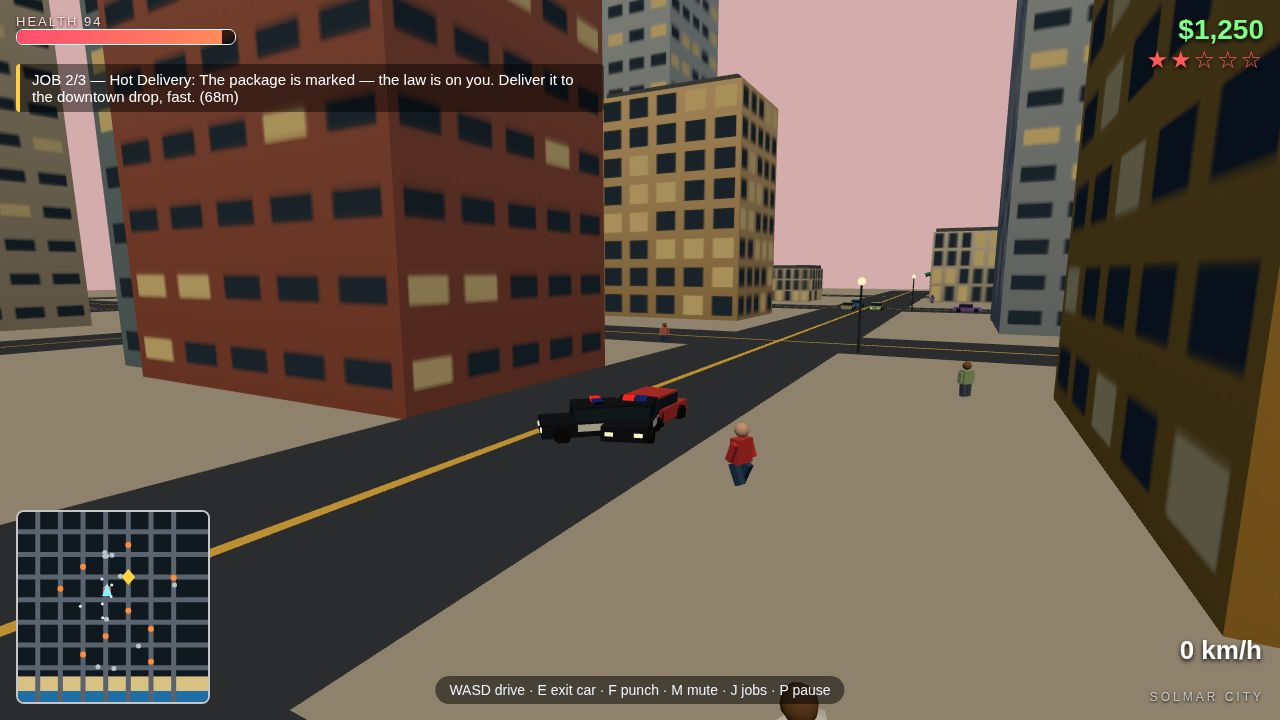
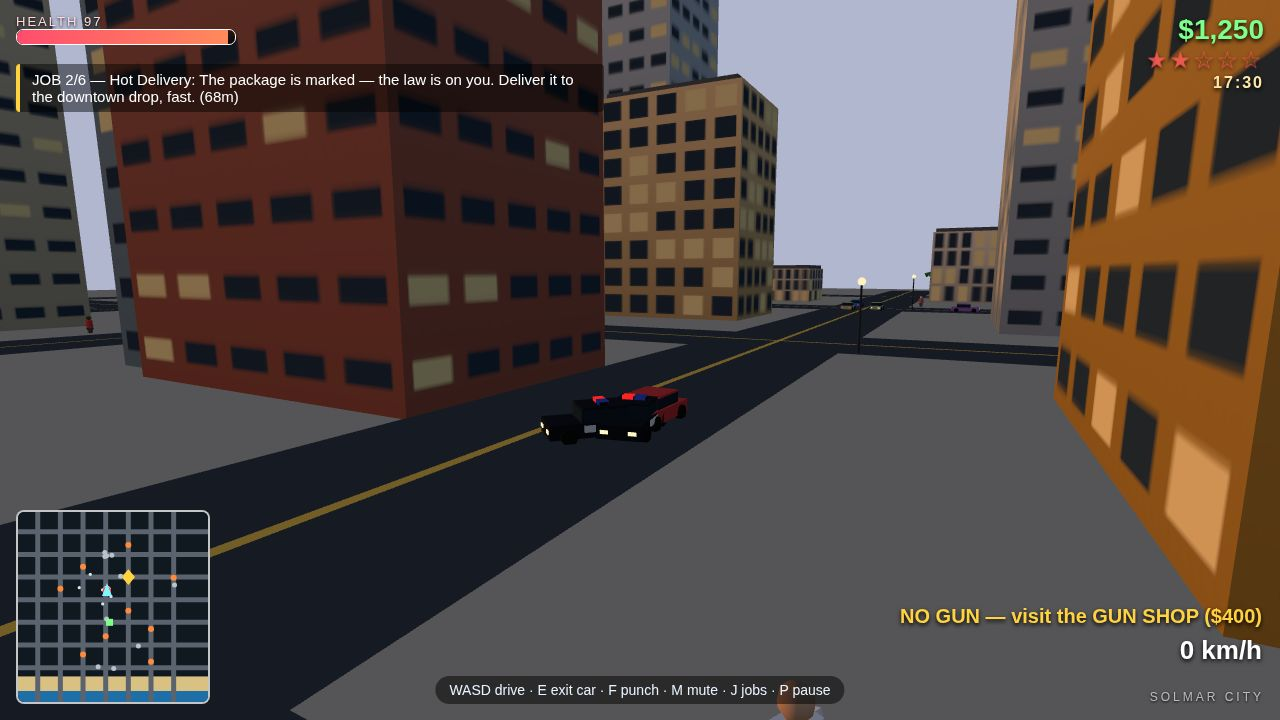
Phase 3 fixes: clock agrees with sky in all poses, long Help! bark in mission shot, health-0 WASTED edge, drop stale vista shot

diff --git a/game/src/shots.js b/game/src/shots.js
@@ -5,7 +5,8 @@
 // every pose only uses systems that exist in the build (Phase 2: traffic,
 // pedestrians, police pursuit and missions all run live in the shot;
 // Phase 3: the pistol, the night cycle, traffic lights and ped barks).
-import { setTimeOfDay } from './city.js';
+// Poses set the hour through the day/night system, so the HUD clock always
+// agrees with the sky in the frame.
 
 export const SHOT_NAMES = ['drive', 'street', 'vista', 'menu', 'chase', 'mission', 'night'];
 
@@ -20,7 +21,7 @@ export function stageShot(name, ctx) {
   if (name === 'drive') {
     // Mara driving downtown, towers ahead, traffic on the avenue, a
     // pedestrian on the sidewalk, HUD + minimap + job tracker live.
-    setTimeOfDay(ctx.scene, ctx.city, 0);
+    ctx.daynight.setHours(10);
     missions.startMission(0);
     car.pos.set(3.5, 0, -60);
     car.heading = 0;
@@ -38,7 +39,7 @@ export function stageShot(name, ctx) {
   if (name === 'street') {
     // On foot on the main avenue, midday sun, a parked car ahead and
     // pedestrians walking the sidewalk.
-    setTimeOfDay(ctx.scene, ctx.city, 0);
+    ctx.daynight.setHours(12);
     missions.startMission(0);
     player.pos.set(2, 0, -30);
     player.heading = 0;
@@ -61,7 +62,7 @@ export function stageShot(name, ctx) {
     // Golden-hour vista from the beach: car at the beachfront intersection,
     // downtown towers rising behind it, sea at the camera's back, traffic
     // cruising the beachfront road.
-    setTimeOfDay(ctx.scene, ctx.city, 1);
+    ctx.daynight.setHours(18.5);
     missions.startMission(0);
     car.pos.set(0, 0, 186);
     car.heading = Math.PI;
@@ -79,7 +80,7 @@ export function stageShot(name, ctx) {
   if (name === 'chase') {
     // Two stars, two patrol cars on Mara's tail, traffic ahead, golden
     // late-afternoon light: the wanted system in action.
-    setTimeOfDay(ctx.scene, ctx.city, 0.55);
+    ctx.daynight.setHours(17.5);
     missions.startMission(1); // Hot Delivery — the job that starts wanted
     car.pos.set(3.5, 0, -30);
     car.heading = 0;
@@ -122,7 +123,7 @@ export function stageShot(name, ctx) {
     traffic.place(0, -3.5, -90, 'ns', -1, 10);
     traffic.place(1, 3.5, 30, 'ns', 1, 9);
     const scared = peds.place(0, 12, -22);
-    peds.bark(scared, 'Help!');
+    peds.bark(scared, 'Help!', 30); // long bubble so the shot catches it
     peds.place(1, -12, -48);
     peds.place(2, 12, -58);
     ctx.setCamera(2, 4.5, -44, 2, 1.6, -30);
@@ -149,7 +150,7 @@ export function stageShot(name, ctx) {
     return 'fixed';
   }
   // menu: sunset over the city behind the start screen.
-  setTimeOfDay(ctx.scene, ctx.city, 0.85);
+  ctx.daynight.setHours(18);
   missions.startMission(0);
   player.pos.set(0, 0, 120);
   ctx.exitCar(true);

diff --git a/game/src/pedestrians.js b/game/src/pedestrians.js
@@ -88,7 +88,7 @@ export function spawnPedestrians(scene, seed, count = 26) {
   }
 
   /** Put words over a pedestrian's head for a couple of seconds. */
-  function bark(p, text) {
+  function bark(p, text, life = 1.8) {
     if (!p || p.down) return;
     if (p.barkSprite) {
       p.group.remove(p.barkSprite);
@@ -98,7 +98,7 @@ export function spawnPedestrians(scene, seed, count = 26) {
     p.barkSprite = makeBarkSprite(text);
     p.barkSprite.position.y = 2.7;
     p.group.add(p.barkSprite);
-    p.barkLife = 1.8;
+    p.barkLife = life;
     p.barkTimer = rand(rng, 8, 22);
   }
 

diff --git a/game/src/main.js b/game/src/main.js
@@ -491,7 +491,7 @@ function frame() {
         audio.thud();
       }
       if (policeEvents.busted) handleBusted();
-      if (state.wanted === 0 && state.health < 100) state.health = Math.min(100, state.health + 2 * dt);
+      if (state.wanted === 0 && state.health > 0 && state.health < 100) state.health = Math.min(100, state.health + 2 * dt);
       if (state.health <= 0) handleWasted();
 
       // --- missions ----------------------------------------------------------
